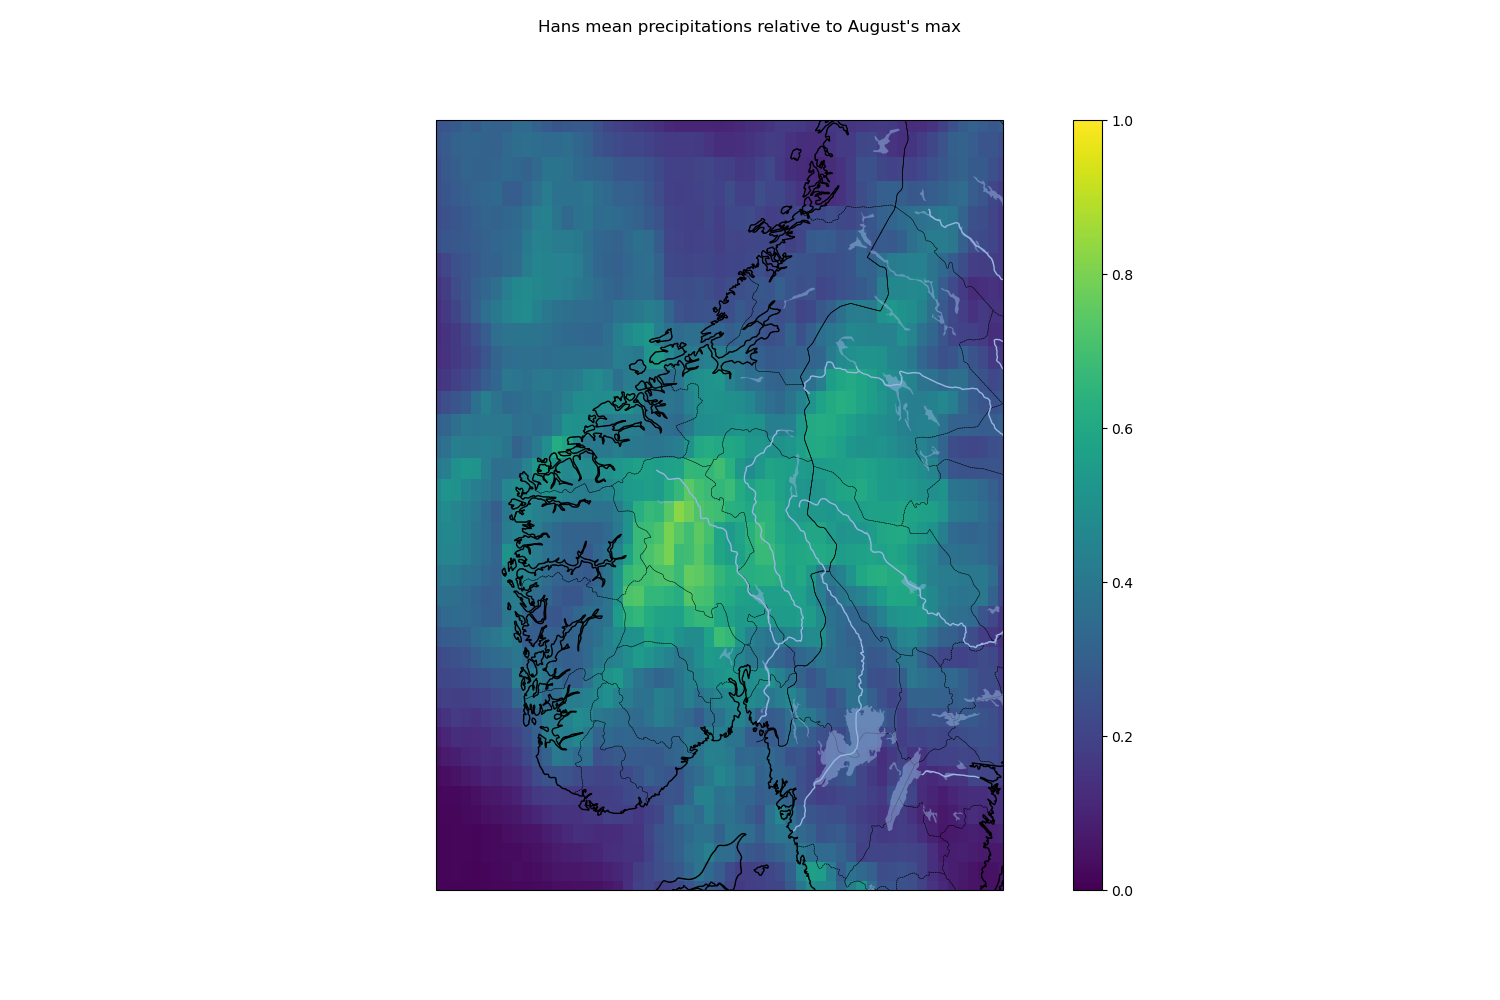
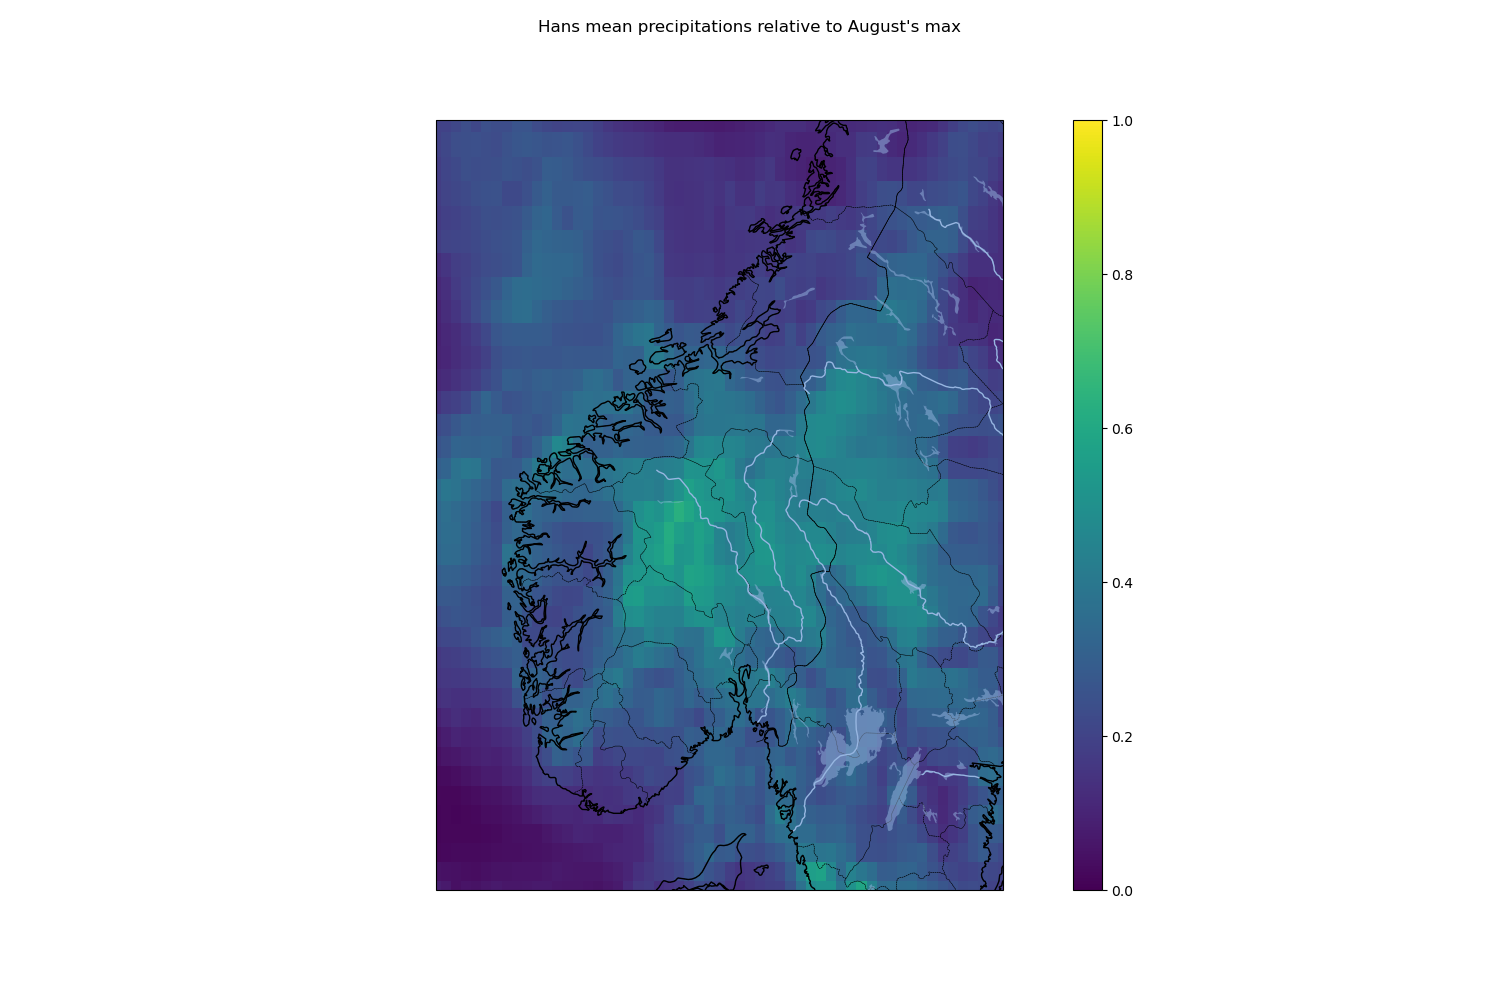
2 days mean

diff --git a/hans_storm/script/hans_relative.py b/hans_storm/script/hans_relative.py
@@ -54,16 +54,30 @@ for dailyData in hansData:
     fig.savefig(endDir+fileName+'.png')
     wd.geo.plt.close()
 
-hansMean = wd.mean_over_time(
+hansMean2 = wd.mean_over_time(
     tp2023.sel(time=slice(
         wd.np.datetime64('2023-08-07'),
+        wd.np.datetime64('2023-08-08')
+    )), 
+    2).sel(time=wd.np.datetime64('2023-08-08'))
+
+res = hansMean2 / data
+title = "Hans mean precipitations relative to August's max"
+fileName = "tp24_relative-max-august_all-res_hans-07-08"
+fig, axis = wd.draw_map(res, title=title, extent=(0,1))
+fig.savefig(endDir+fileName+'.png')
+wd.geo.plt.close()
+
+hansMean4 = wd.mean_over_time(
+    tp2023.sel(time=slice(
+        wd.np.datetime64('2023-08-06'),
         wd.np.datetime64('2023-08-09')
     )), 
-    3).sel(time=wd.np.datetime64('2023-08-08'))
+    4).sel(time=wd.np.datetime64('2023-08-08'))
 
-res = hansMean / data
+res = hansMean4 / data
 title = "Hans mean precipitations relative to August's max"
-fileName = "tp24_relative-max-august_all-res_hans-07-09"
+fileName = "tp24_relative-max-august_all-res_hans-06-09"
 fig, axis = wd.draw_map(res, title=title, extent=(0,1))
 fig.savefig(endDir+fileName+'.png')
 wd.geo.plt.close()
